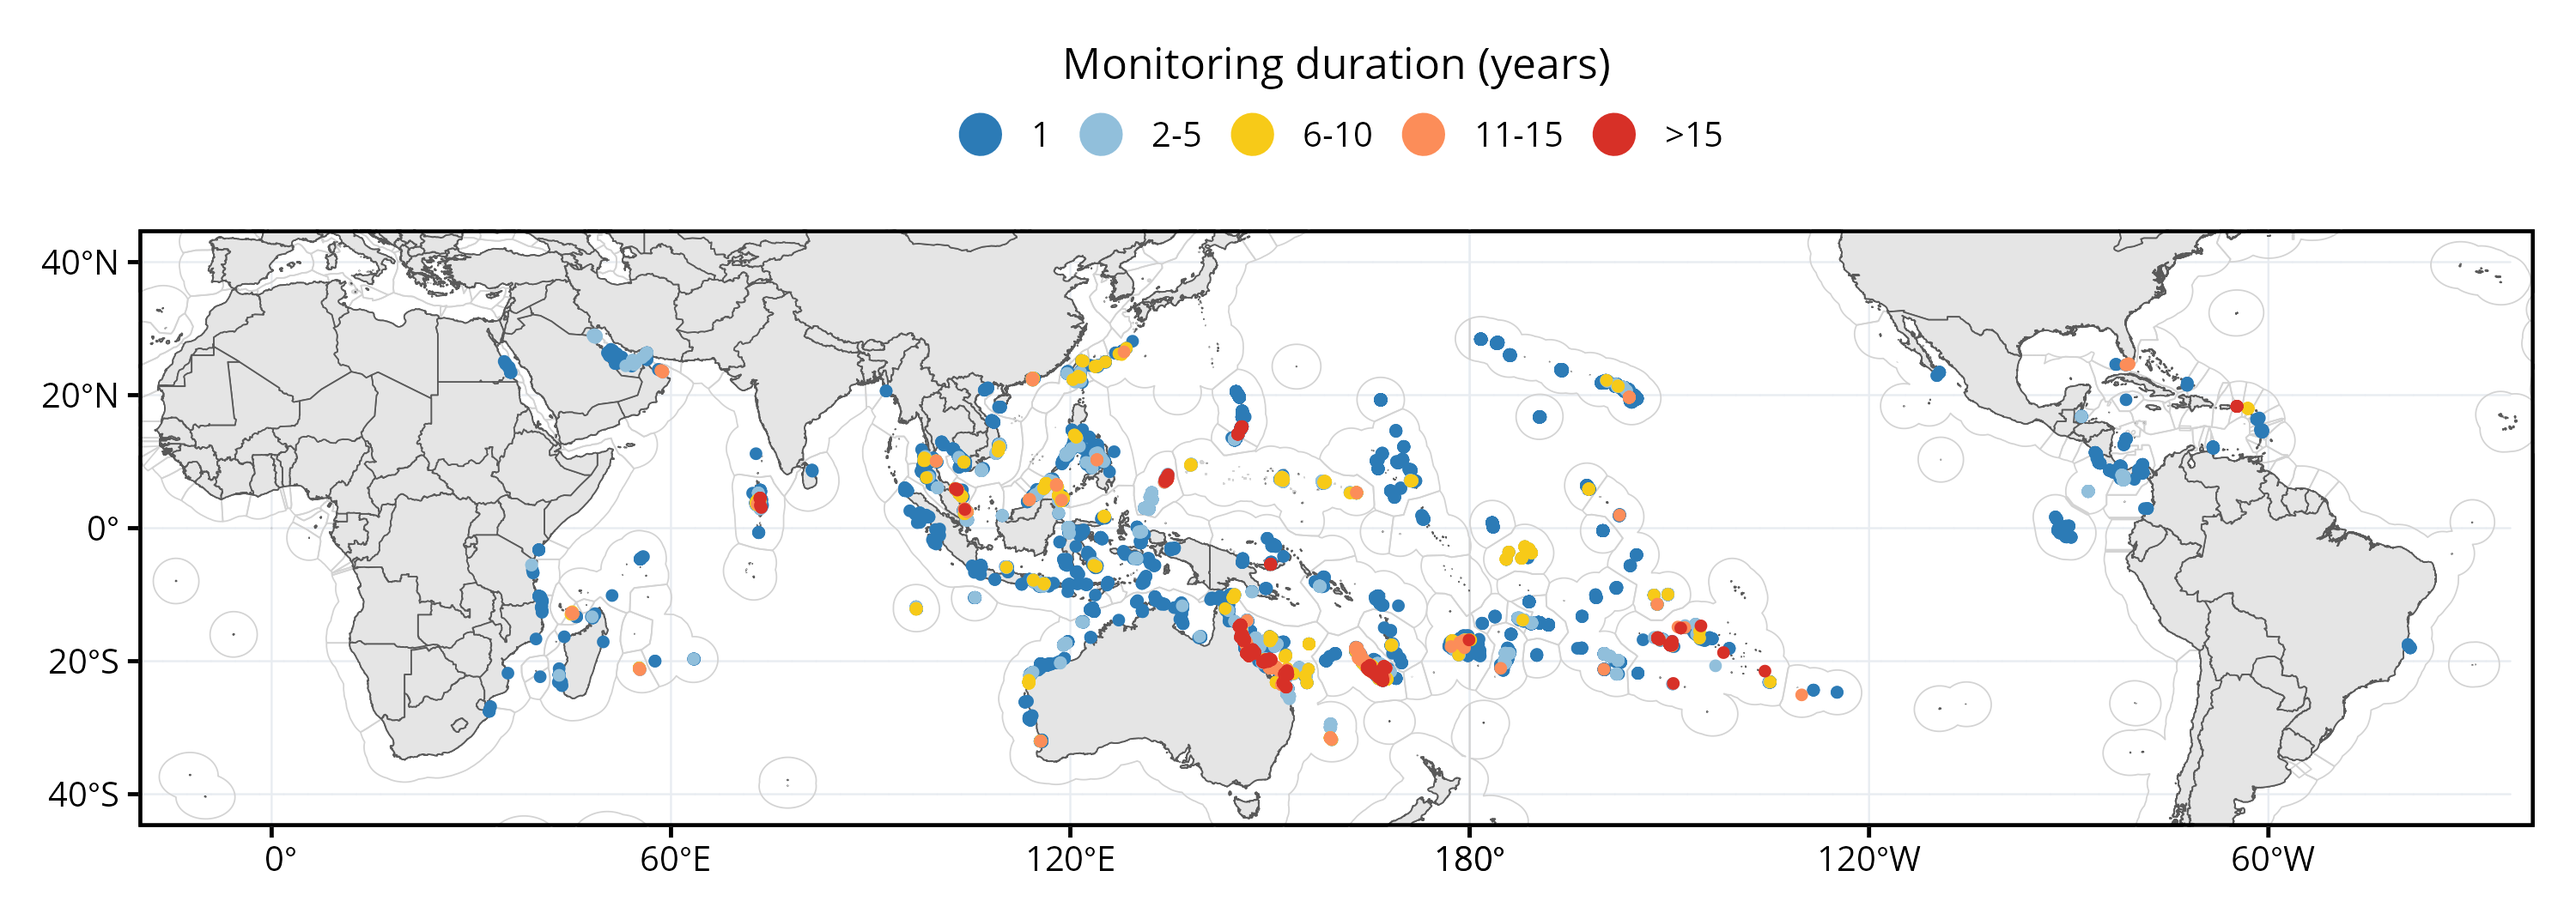
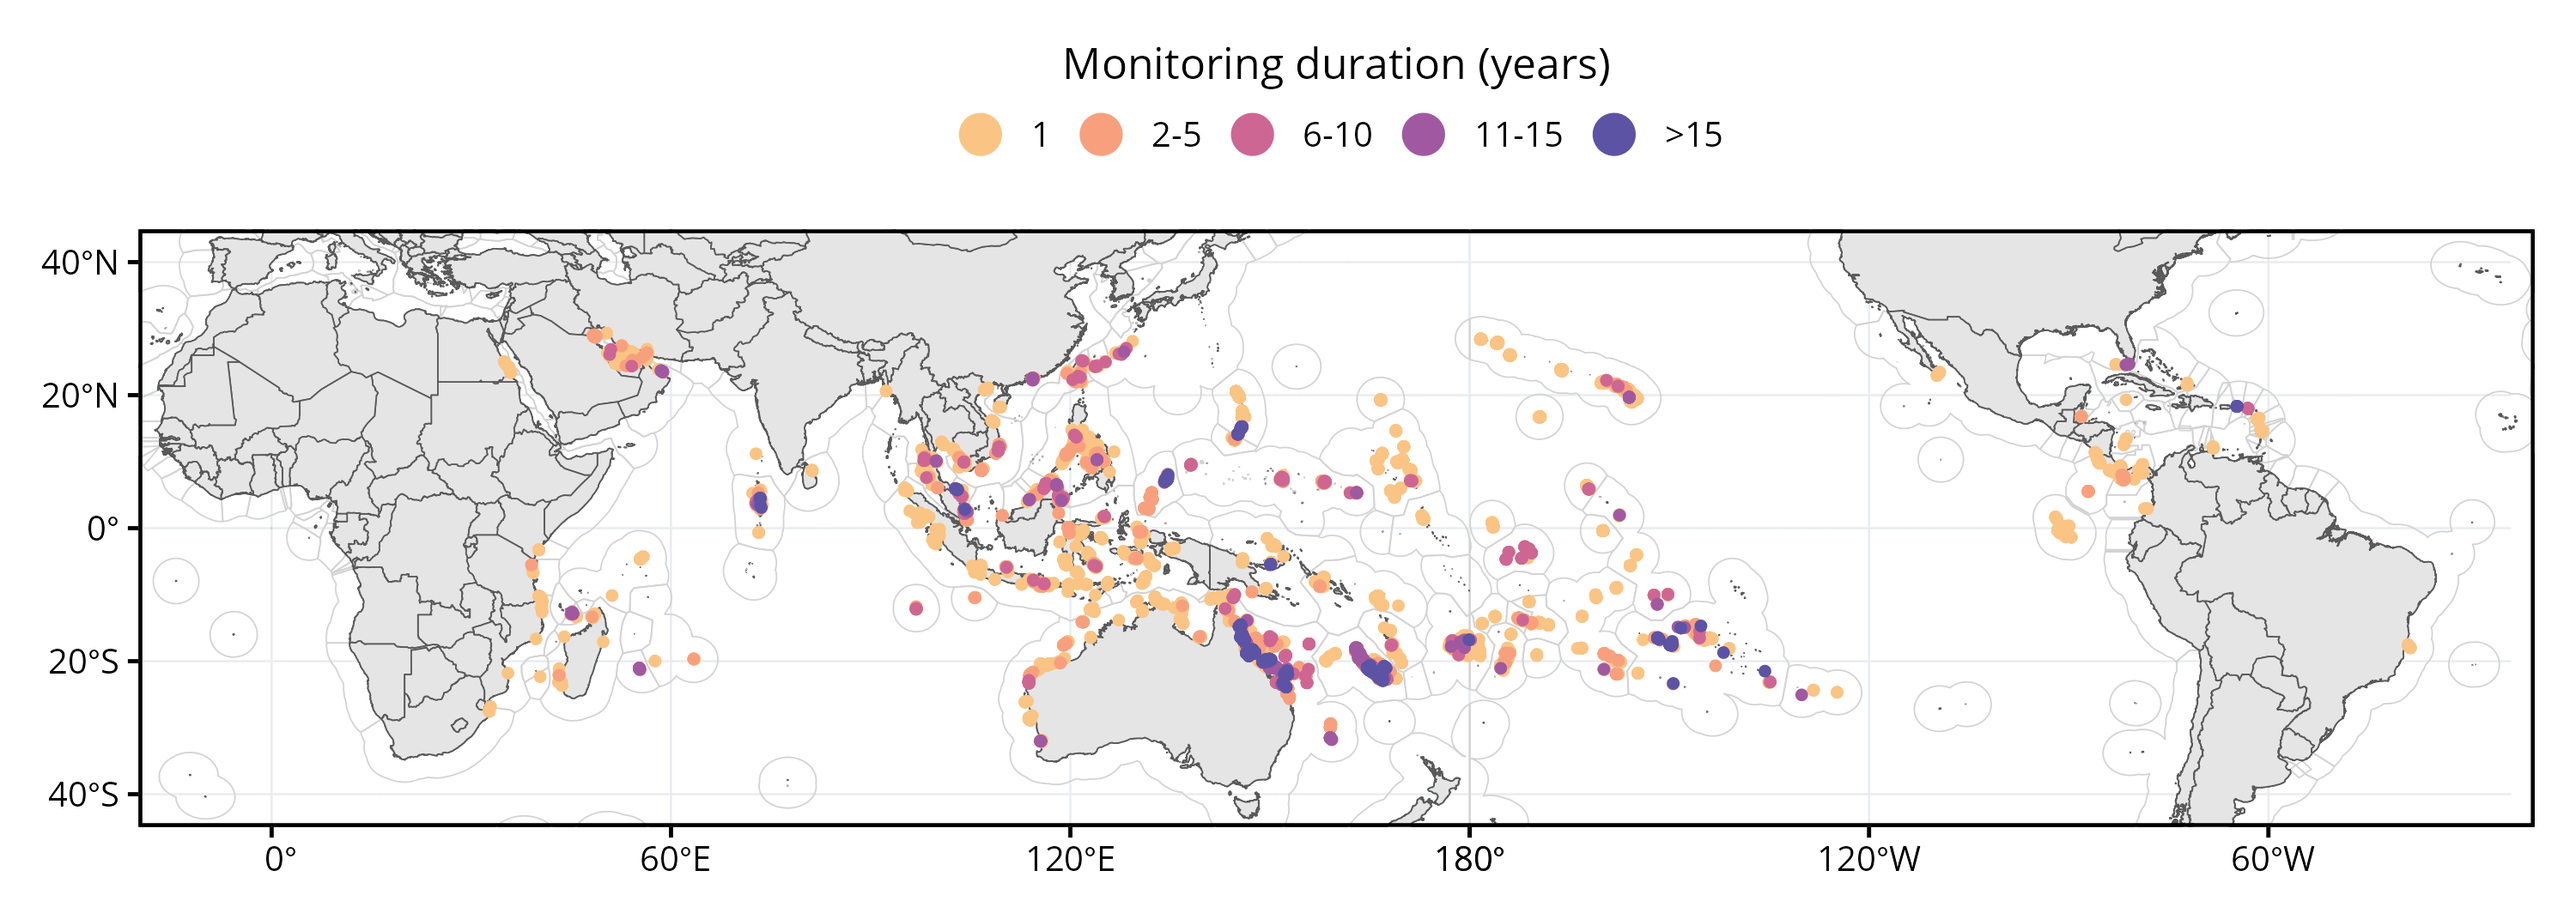
add link to interactive map

diff --git a/code/04_dataviz_monitoring-sites.js b/code/04_dataviz_monitoring-sites.js
@@ -1,12 +1,15 @@
-// 1. Import and show WRI coral reef distribution data ----
+// 1. Define background map style ----
+
+Map.setOptions('TERRAIN');
+
+// 2. Import and show WRI coral reef distribution data ----
 
 var reef = ee.FeatureCollection("users/jeremywicquart/data_reefs");
-
 Map.addLayer(reef, {color: '#2c82c9'}, 'Coral reefs');
 
-// 2. Import and show gcrmndb_benthos monitoring sites ----
+// 3. Import and show gcrmndb_benthos monitoring sites ----
 
-// 2.1 Add the layers ----
+// 3.1 Add the layers ----
 
 var site_coords = ee.FeatureCollection("users/jeremywicquart/gcrmndb-benthos_site-coords");
 
@@ -25,7 +28,7 @@ Map.addLayer(site_coords_4, {color: '#a059a0'}, '11-15 years');
 var site_coords_5 = site_coords.filter("int_class == '>15 years'");
 Map.addLayer(site_coords_5, {color: '#5c53a5'}, '>15 years');
 
-// 2.2 Add the legend ----
+// 3.2 Add the legend ----
 
 // set position of panel
 var legend = ui.Panel({
@@ -37,7 +40,7 @@ var legend = ui.Panel({
  
 // Create legend title
 var legendTitle = ui.Label({
-  value: 'Number of years',
+  value: 'Monitoring years',
   style: {
     fontWeight: 'bold',
     fontSize: '18px',
@@ -89,7 +92,7 @@ for (var i = 0; i < 5; i++) {
 // add legend to map (alternatively you can also print the legend to the console)
 Map.add(legend);
 
-// 3. Import and show gcrmndb_benthos monitoring sites for a given datasetID ----
+// 4. Import and show gcrmndb_benthos monitoring sites for a given datasetID ----
 
 //var site_coords_i = ee.FeatureCollection("users/jeremywicquart/gcrmndb-benthos_site-coords").filter("datasetID == '0047'");
 

diff --git a/README.md b/README.md
@@ -300,9 +300,12 @@ considered. The column names (except *aggregator*) correspond to
 
 ## 6. Description of the synthetic dataset
 
-On the 2024-08-27, the `gcrmndb_benthos` synthetic dataset contains a
+On the 2024-08-29, the `gcrmndb_benthos` synthetic dataset contains a
 total of **14,203,514 observations** (*i.e* rows) representing **12,400
-sites** and **27,042 surveys**.
+sites** and **27,042 surveys**. The distribution of monitoring sites in
+time and space is shown in **Figure 2**. An interactive version of this
+map is available on [Google Earth
+Engine](https://jeremywicquart.users.earthengine.app/view/gcrmndbbenthos).
 
 ![](figs/map_sites.png)
 
@@ -310,14 +313,19 @@ sites** and **27,042 surveys**.
 for which data are included within the `gcrmndb_benthos` synthetic
 dataset. Light grey polygons represents economic exclusive zones.
 Colours corresponds to monitoring duration which is the difference, for
-each site, between the first and last years with data.
+each site, between the first and last years with data. Note that the
+datasetID 0009 is not included in this map, due to the very large number
+of sites and a monitoring method that differs from those of the other
+datasets.
 
 **Table 6.** Summary of the content of the `gcrmndb_benthos` synthetic
 dataset per GCRMN region. EAS = East Asian Seas, ETP = Eastern Tropical
 Pacific, WIO = Western Indian Ocean. The total number of datasets
 integrated within the `gcrmndb_benthos` can differ from the sum of the
 column `Datasets (n)`, as some datasets includes sites in different
-GCRMN regions.
+GCRMN regions. Note that the datasetID 0009 is not included in this
+table, due to the very large number of sites and a monitoring method
+that differs from those of the other datasets.
 
 |         GCRMN region | Sites (n) | Surveys (n) | Datasets (n) | First year | Last year |
 |---------------------:|----------:|------------:|-------------:|:----------:|:---------:|
@@ -338,7 +346,9 @@ GCRMN regions.
 dataset per country and territory. The total number of datasets
 integrated within the `gcrmndb_benthos` can differ from the sum of the
 column `Datasets (n)`, as some datasets includes sites in different
-territories.
+territories. Note that the datasetID 0009 is not included in this table,
+due to the very large number of sites and a monitoring method that
+differs from those of the other datasets.
 
 |               Country | Territory                      | Sites (n) | Surveys (n) | Datasets (n) | First year | Last year |
 |----------------------:|:-------------------------------|----------:|------------:|-------------:|:----------:|:---------:|
@@ -490,7 +500,7 @@ The following organizations have funded the realization of the
      collate  French_France.utf8
      ctype    French_France.utf8
      tz       Europe/Paris
-     date     2024-08-27
+     date     2024-08-29
      pandoc   3.1.11 @ C:/Program Files/RStudio/resources/app/bin/quarto/bin/tools/ (via rmarkdown)
 
     ─ Packages ───────────────────────────────────────────────────────────────────
@@ -512,12 +522,12 @@ The following organizations have funded the realization of the
      clipr               0.8.0   2022-02-22 [1] CRAN (R 4.4.1)
      colorspace          2.1-1   2024-07-26 [1] CRAN (R 4.4.1)
      conflicted          1.2.0   2023-02-01 [1] CRAN (R 4.4.1)
-     cpp11               0.4.7   2023-12-02 [1] CRAN (R 4.4.1)
+     cpp11               0.5.0   2024-08-27 [1] CRAN (R 4.4.1)
      crayon              1.5.3   2024-06-20 [1] CRAN (R 4.4.1)
      credentials         2.0.1   2023-09-06 [1] CRAN (R 4.4.1)
      crosstalk           1.2.1   2023-11-23 [1] CRAN (R 4.4.1)
-     curl                5.2.1   2024-03-01 [1] CRAN (R 4.4.1)
-     data.table          1.15.4  2024-03-30 [1] CRAN (R 4.4.1)
+     curl                5.2.2   2024-08-26 [1] CRAN (R 4.4.1)
+     data.table          1.16.0  2024-08-27 [1] CRAN (R 4.4.1)
      DBI                 1.2.3   2024-06-02 [1] CRAN (R 4.4.1)
      dbplyr              2.5.0   2024-03-19 [1] CRAN (R 4.4.1)
      desc                1.4.3   2023-12-10 [1] CRAN (R 4.4.1)
@@ -551,7 +561,7 @@ The following organizations have funded the realization of the
      htmlwidgets         1.6.4   2023-12-06 [1] CRAN (R 4.4.1)
      httpuv              1.6.15  2024-03-26 [1] CRAN (R 4.4.1)
      httr                1.4.7   2023-08-15 [1] CRAN (R 4.4.1)
-     httr2               1.0.2   2024-07-16 [1] CRAN (R 4.4.1)
+     httr2               1.0.3   2024-08-22 [1] CRAN (R 4.4.1)
      ids                 1.0.1   2017-05-31 [1] CRAN (R 4.4.1)
      ini                 0.3.1   2018-05-20 [1] CRAN (R 4.4.1)
      isoband             0.2.7   2022-12-20 [1] CRAN (R 4.4.1)
